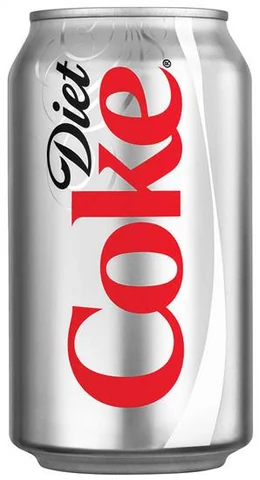
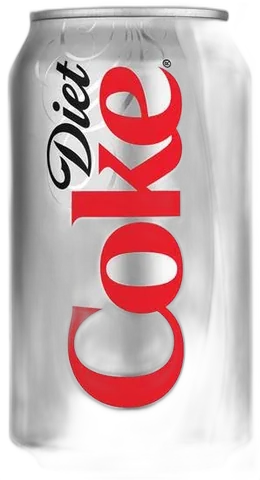
Drop the white box frame, cutout every food/product photo instead
The framed-tile approach still read as boxy nested rectangles.
Removed the frame entirely: images float directly on the card with
a soft drop-shadow, like the emoji do. Background-removed 17 more
photos (food, drinks, portraits, logos-on-solid-color) so they're
clean transparent cutouts instead of rectangles with visible
backgrounds. The 8 stock photos we can't reprocess (no network
access to re-download them) revert to emoji rather than show an
un-cutout rectangle.

diff --git a/lib/deck.js b/lib/deck.js
@@ -6,62 +6,62 @@
 // a real photo is supplied.
 const SYMBOLS = [
   { emoji: '🥗', label: 'Caesar Salad', image: 'https://commons.wikimedia.org/wiki/Special:FilePath/Caesar_salad_(2).jpg?width=300' },
-  { emoji: '🥯', label: 'Bagels', image: '/images/bagels.jpg' },
+  { emoji: '🥯', label: 'Bagels', image: '/images/bagels.webp' },
   { emoji: '🦃', label: 'Sliced Turkey', image: 'https://commons.wikimedia.org/wiki/Special:FilePath/Turkey_slices_prepared_for_Christmas_dinner.jpg?width=300' },
   { emoji: '🍕', label: 'Pizza', image: 'https://commons.wikimedia.org/wiki/Special:FilePath/Pizza_(1).jpg?width=300' },
   { emoji: '🍝', label: 'Pasta', image: 'https://commons.wikimedia.org/wiki/Special:FilePath/Spaghetti_carbonara.jpg?width=300' },
   { emoji: '🍣', label: 'Sushi', image: 'https://commons.wikimedia.org/wiki/Special:FilePath/Sushi_plate.JPG?width=300' },
-  { emoji: '🍨', label: 'Amorino', image: '/images/amorino.jpg' },
+  { emoji: '🍨', label: 'Amorino', image: '/images/amorino.webp' },
   { emoji: '🍜', label: 'Wagamama Teriyaki', image: '/images/wagamama-teriyaki.webp' },
-  { emoji: '🧀', label: 'Mac & Cheese', image: '/images/mac-cheese.jpg' },
+  { emoji: '🧀', label: 'Mac & Cheese', image: '/images/mac-cheese.webp' },
   { emoji: '🛒', label: "Trader Joe's", image: '/images/trader-joes.webp' },
   { emoji: '🟢', label: 'Green M&M', image: '/images/green-mm.webp' },
-  { emoji: '🤍', label: 'Burrata', image: '/images/burrata.jpg' },
+  { emoji: '🤍', label: 'Burrata', image: '/images/burrata.webp' },
   { emoji: '🧈', label: 'Parmesan', image: '/images/parmesan.webp' },
-  { emoji: '🍛', label: 'Butter Chicken (Dishoom)', image: '/images/butter-chicken.jpg' },
-  { emoji: '🍦', label: 'Ice Cream', image: '/images/ice-cream.jpg' },
+  { emoji: '🍛', label: 'Butter Chicken (Dishoom)', image: '/images/butter-chicken.webp' },
+  { emoji: '🍦', label: 'Ice Cream', image: '/images/ice-cream.webp' },
   { emoji: '🥤', label: 'Diet Coke', image: '/images/diet-coke.webp' },
-  { emoji: '☕', label: 'Hot Chocolate', image: 'https://commons.wikimedia.org/wiki/Special:FilePath/Chocolate_drink_in_mug.jpg?width=300' },
+  { emoji: '☕', label: 'Hot Chocolate', image: null },
   { emoji: '🎊', label: 'Multicolour Sprinkles', image: '/images/sprinkles.jpg' },
-  { emoji: '🥑', label: 'Avocado Toast', image: 'https://commons.wikimedia.org/wiki/Special:FilePath/Avocado_toast.jpg?width=300' },
-  { emoji: '🥂', label: 'Hugo Spritz', image: '/images/hugo-spritz.jpg' },
-  { emoji: '🧋', label: 'Iced Coffee', image: '/images/iced-coffee.jpg' },
-  { emoji: '🍰', label: 'Cookies & Cream Cake', image: '/images/cookies-cream-cake.jpg' },
-  { emoji: '🥡', label: 'Pad Thai', image: '/images/pad-thai.jpg' },
-  { emoji: '🍭', label: 'Orange Calippo', image: 'https://commons.wikimedia.org/wiki/Special:FilePath/Orange_Calippo.jpg?width=300' },
-  { emoji: '🍗', label: "Chicken Tenders (McDonald's)", image: 'https://commons.wikimedia.org/wiki/Special:FilePath/Crispy_Chicken_Strips_-_FotoosVanRobin.jpg?width=300' },
+  { emoji: '🥑', label: 'Avocado Toast', image: null },
+  { emoji: '🥂', label: 'Hugo Spritz', image: '/images/hugo-spritz.webp' },
+  { emoji: '🧋', label: 'Iced Coffee', image: '/images/iced-coffee.webp' },
+  { emoji: '🍰', label: 'Cookies & Cream Cake', image: '/images/cookies-cream-cake.webp' },
+  { emoji: '🥡', label: 'Pad Thai', image: '/images/pad-thai.webp' },
+  { emoji: '🍭', label: 'Orange Calippo', image: null },
+  { emoji: '🍗', label: "Chicken Tenders (McDonald's)", image: null },
   { emoji: '🏛', label: 'Colosseum', image: '/images/colosseum.jpg' },
   { emoji: '🚇', label: 'London Underground', image: '/images/london-underground.webp' },
   { emoji: '🏙', label: 'Empire State Building', image: 'https://commons.wikimedia.org/wiki/Special:FilePath/Empire_State_Building,_New_York,_NY.jpg?width=300' },
   { emoji: '🛶', label: 'Venice', image: '/images/venice.jpg' },
   { emoji: '🌉', label: 'Brooklyn Bridge', image: 'https://commons.wikimedia.org/wiki/Special:FilePath/Brooklyn_Bridge_Jun_2014.jpg?width=300' },
   { emoji: '🏞', label: 'Lake (Montanejos)', image: '/images/lake-montanejos.jpg' },
-  { emoji: '✈', label: 'Plane', image: 'https://commons.wikimedia.org/wiki/Special:FilePath/Airplane_in_flight.jpg?width=300' },
-  { emoji: '🐦', label: 'Mockingjay', image: '/images/mockingjay.jpg' },
-  { emoji: '🧙♀', label: 'Elphaba', image: '/images/elphaba.jpg' },
-  { emoji: '❄', label: 'Elsa', image: 'https://commons.wikimedia.org/wiki/Special:FilePath/Snowflake_macro_photography_1.jpg?width=300' },
+  { emoji: '✈', label: 'Plane', image: null },
+  { emoji: '🐦', label: 'Mockingjay', image: '/images/mockingjay.webp' },
+  { emoji: '🧙♀', label: 'Elphaba', image: '/images/elphaba.webp' },
+  { emoji: '❄', label: 'Elsa', image: null },
   { emoji: '🎭', label: 'Hamilton', image: '/images/hamilton.jpg' },
-  { emoji: '🕶', label: 'Men In Black', image: 'https://commons.wikimedia.org/wiki/Special:FilePath/Ray-Ban_Aviator_sunglasses.jpg?width=300' },
+  { emoji: '🕶', label: 'Men In Black', image: null },
   { emoji: '🐨', label: 'Koalas', image: 'https://commons.wikimedia.org/wiki/Special:FilePath/Koala_climbing_tree.jpg?width=300' },
   { emoji: '🐶', label: 'Beige Cavapoo', image: '/images/beige-cavapoo.webp' },
   { emoji: '🐩', label: 'Beige Labradoodle', image: '/images/beige-labradoodle.webp' },
   { emoji: '🐹', label: 'Lemming', image: '/images/lemming.webp' },
   { emoji: '🥔', label: 'A Furry Potato', image: '/images/furry-potato.webp' },
-  { emoji: '🐄', label: 'Smudge (Jellycat Cow)', image: '/images/smudge-cow.jpg' },
+  { emoji: '🐄', label: 'Smudge (Jellycat Cow)', image: '/images/smudge-cow.webp' },
   { emoji: '🕺', label: 'Dancer', image: null },
   { emoji: '🩰', label: 'Dance Shoes', image: null },
-  { emoji: '🧸', label: 'Ballerina Teddy Bear', image: 'https://commons.wikimedia.org/wiki/Special:FilePath/Tommy_Bear_-_A_Teddy_Bear.jpg?width=300' },
+  { emoji: '🧸', label: 'Ballerina Teddy Bear', image: null },
   { emoji: '🐰', label: 'Bunny Teddy Bear', image: '/images/bunny-teddy-bear.webp' },
   { emoji: '🏷', label: 'Jellycat Logo', image: '/images/jellycat-logo.webp' },
   { emoji: '🐓', label: 'Spurs', image: '/images/spurs.webp' },
-  { emoji: '👑', label: 'Crown Hat', image: '/images/crown-hat.jpg' },
+  { emoji: '👑', label: 'Crown Hat', image: '/images/crown-hat.webp' },
   { emoji: '💌', label: 'A + L', image: '/images/a-plus-l.jpg' },
   { emoji: '🏕', label: "Pinemere's Camp", image: '/images/pinemere-camp.webp' },
   { emoji: '🪑', label: 'Park Bench', image: '/images/park-bench.jpg' },
   { emoji: '📖', label: 'Book', image: 'https://commons.wikimedia.org/wiki/Special:FilePath/Books_in_a_stack_(a_stack_of_books)_-_Flickr_-_austinevan.jpg?width=300' },
   { emoji: '📲', label: 'Kindle', image: 'https://commons.wikimedia.org/wiki/Special:FilePath/Amazon_Kindle_Paperwhite_5_Eleventh_Generation_(C2V2L3)_6-inch_e-reader.jpg?width=300' },
   { emoji: '🥷', label: 'Ninja Warrior Kit', image: '/images/ninja-warrior-kit.jpg' },
-  { emoji: '🧪', label: 'Science Kit', image: '/images/science-kit.jpg' },
+  { emoji: '🧪', label: 'Science Kit', image: '/images/science-kit.webp' },
 ];
 
 // Classic finite-projective-plane construction (n must be prime).

diff --git a/public/layout.js b/public/layout.js
@@ -60,20 +60,17 @@ function renderCard(el, cardSymbols, { onTap } = {}) {
     };
 
     if (sym.image) {
-      const frame = document.createElement('div');
-      frame.className = 'symbol-frame';
       const img = document.createElement('img');
       img.className = 'symbol-image';
       img.alt = sym.label;
       img.title = sym.label;
       img.loading = 'eager';
       img.fetchPriority = 'high';
-      img.addEventListener('load', () => frame.classList.add('loaded'), { once: true });
-      img.addEventListener('error', () => frame.replaceWith(makeEmoji()), { once: true });
+      img.addEventListener('load', () => img.classList.add('loaded'), { once: true });
+      img.addEventListener('error', () => img.replaceWith(makeEmoji()), { once: true });
       img.src = sym.image;
-      if (img.complete) frame.classList.add('loaded');
-      frame.appendChild(img);
-      div.appendChild(frame);
+      if (img.complete) img.classList.add('loaded');
+      div.appendChild(img);
     } else {
       div.title = sym.label;
       div.appendChild(makeEmoji());

diff --git a/public/style.css b/public/style.css
@@ -224,31 +224,19 @@ label { display: block; text-align: left; font-weight: 600; font-size: 0.9rem; c
 
 .symbol-emoji { line-height: 1; }
 
-.symbol-frame {
-  width: 94%;
-  height: 94%;
-  box-sizing: border-box;
-  padding: 9%;
-  border-radius: 22%;
-  background: #fff;
-  box-shadow: 0 3px 8px rgba(58, 43, 69, 0.22), 0 0 0 1px rgba(58, 43, 69, 0.06);
-  display: flex;
-  align-items: center;
-  justify-content: center;
-  overflow: hidden;
+.symbol-image {
+  width: 96%;
+  height: 96%;
+  object-fit: contain;
+  border-radius: 14%;
+  pointer-events: none;
+  filter: drop-shadow(0 2px 5px rgba(58, 43, 69, 0.35));
   opacity: 0;
   transition: opacity 0.25s ease;
 }
 
-.symbol-frame.loaded {
+.symbol-image.loaded {
   opacity: 1;
-}
-
-.symbol-image {
-  width: 100%;
-  height: 100%;
-  object-fit: contain;
-  pointer-events: none;
 }
 
 .symbol.correct { animation: pulseGreen 0.6s ease; }
